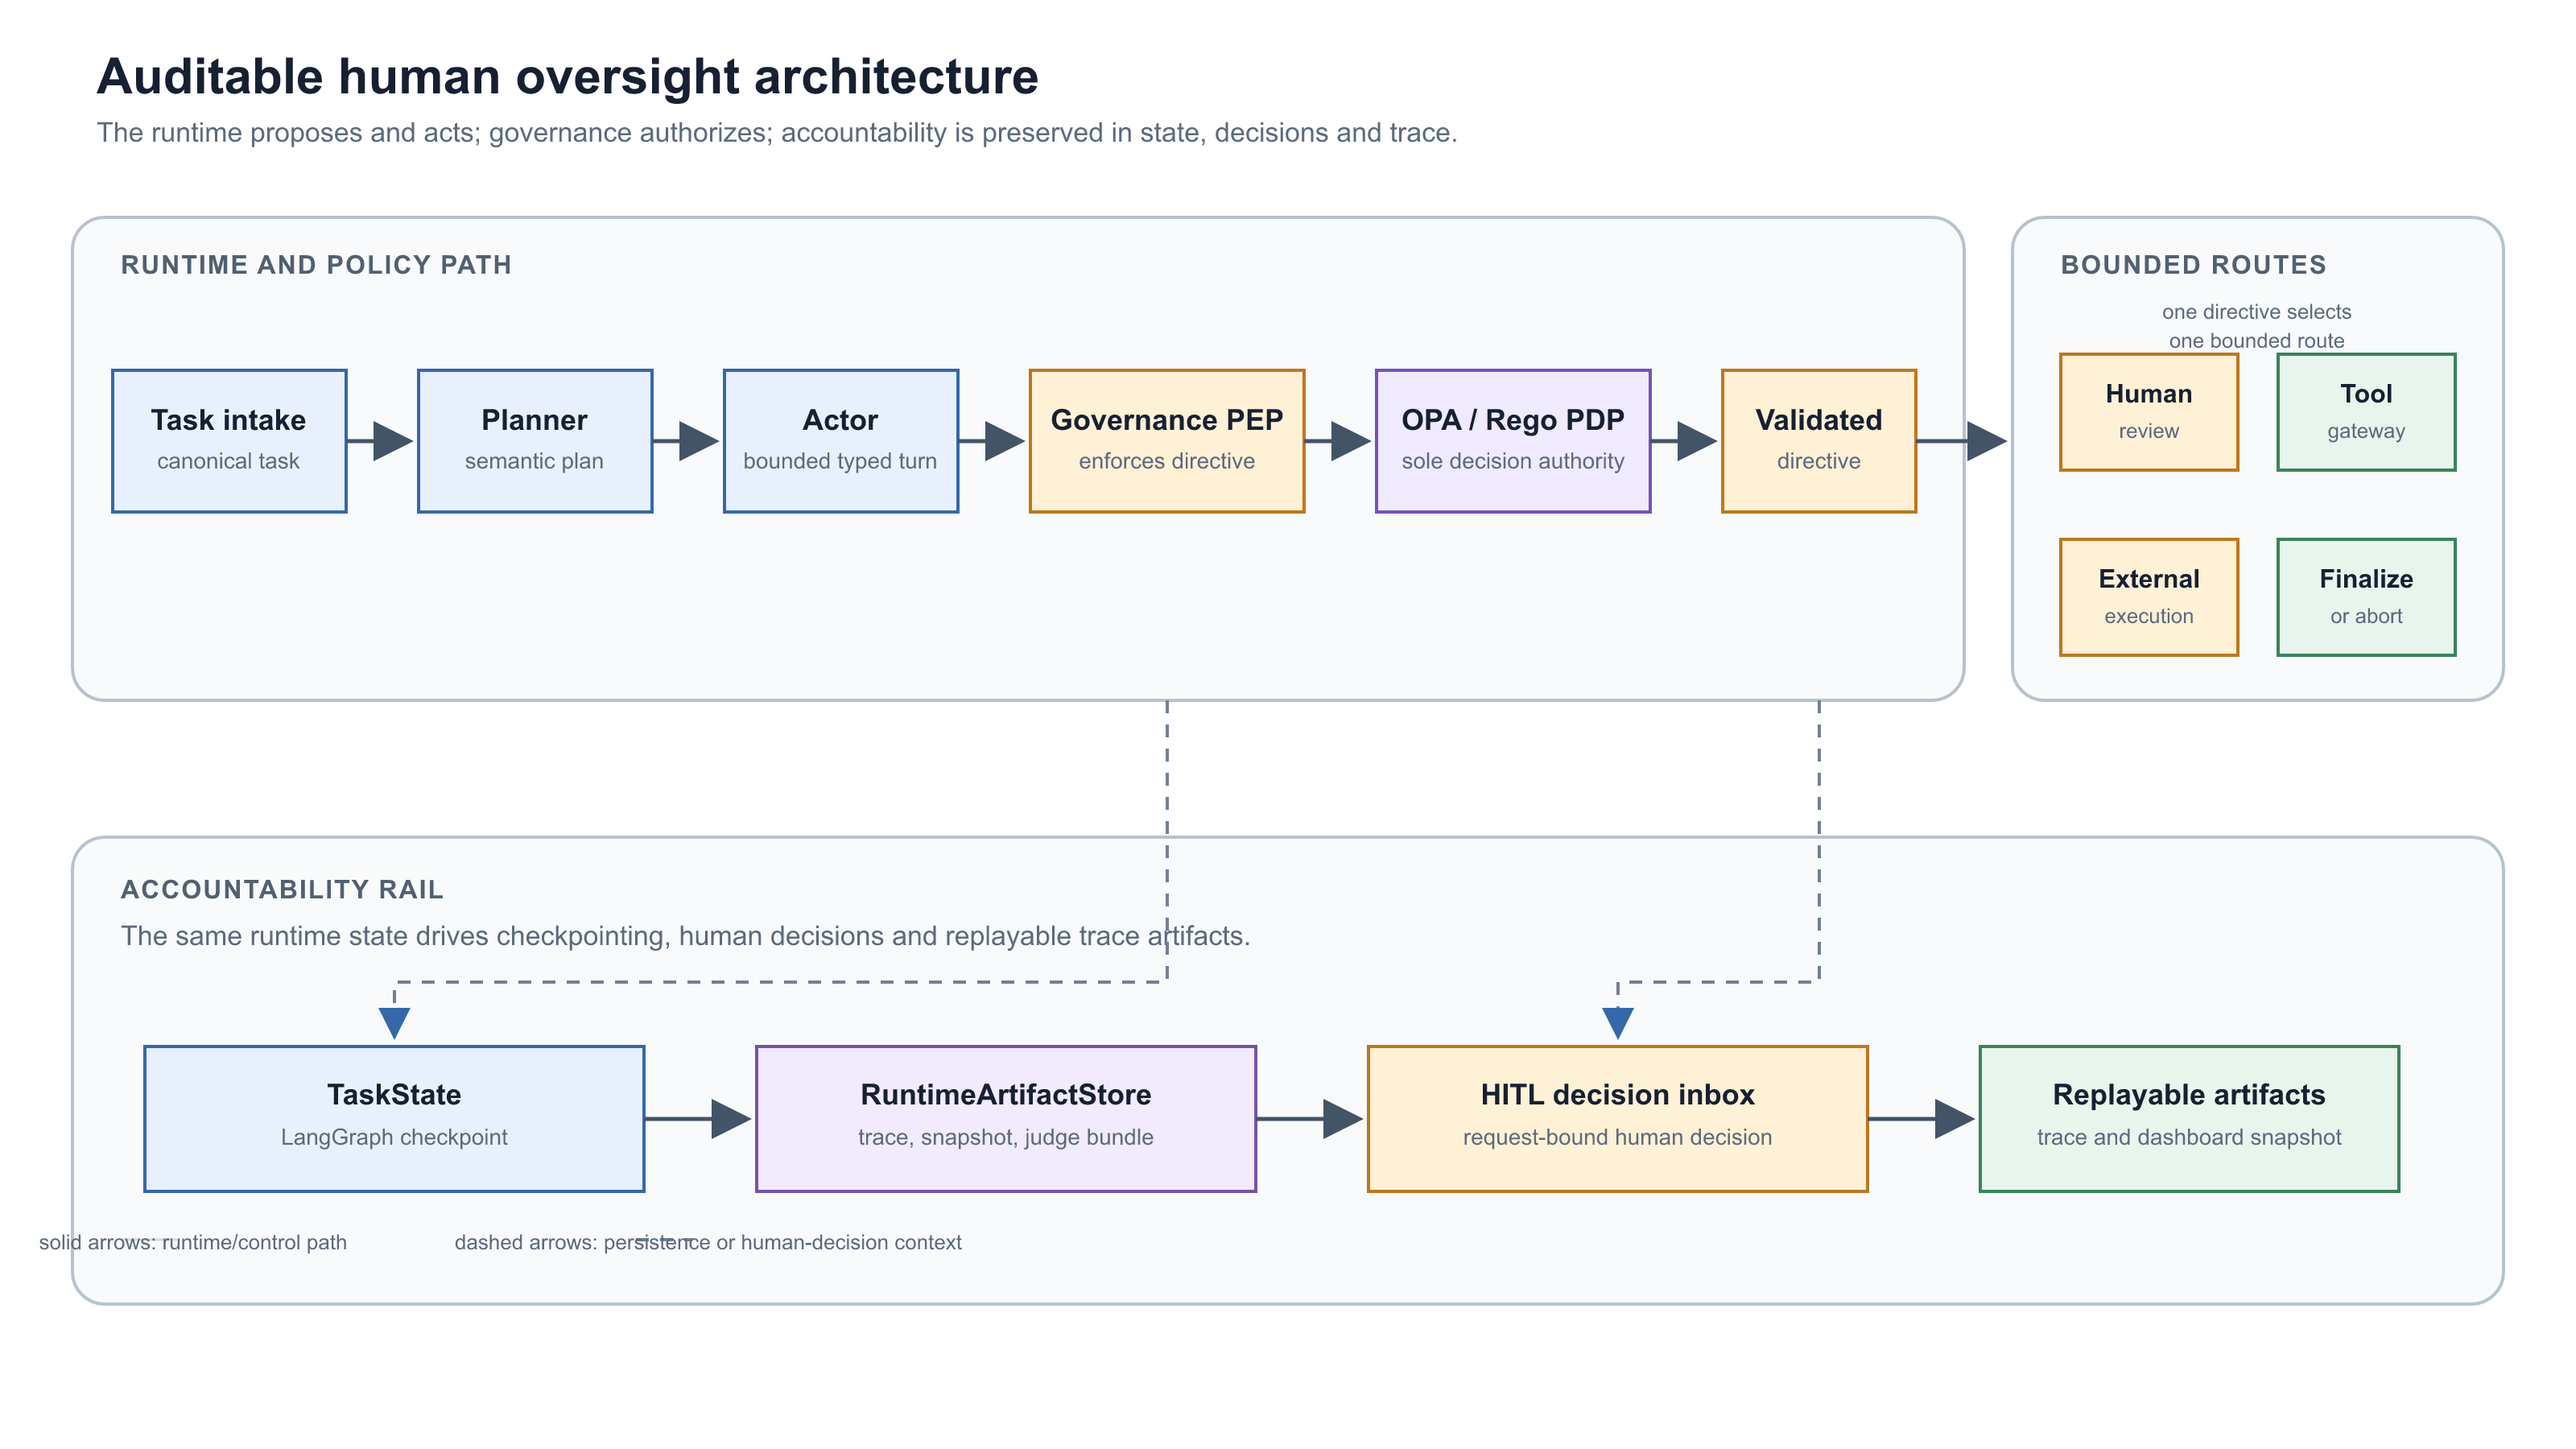
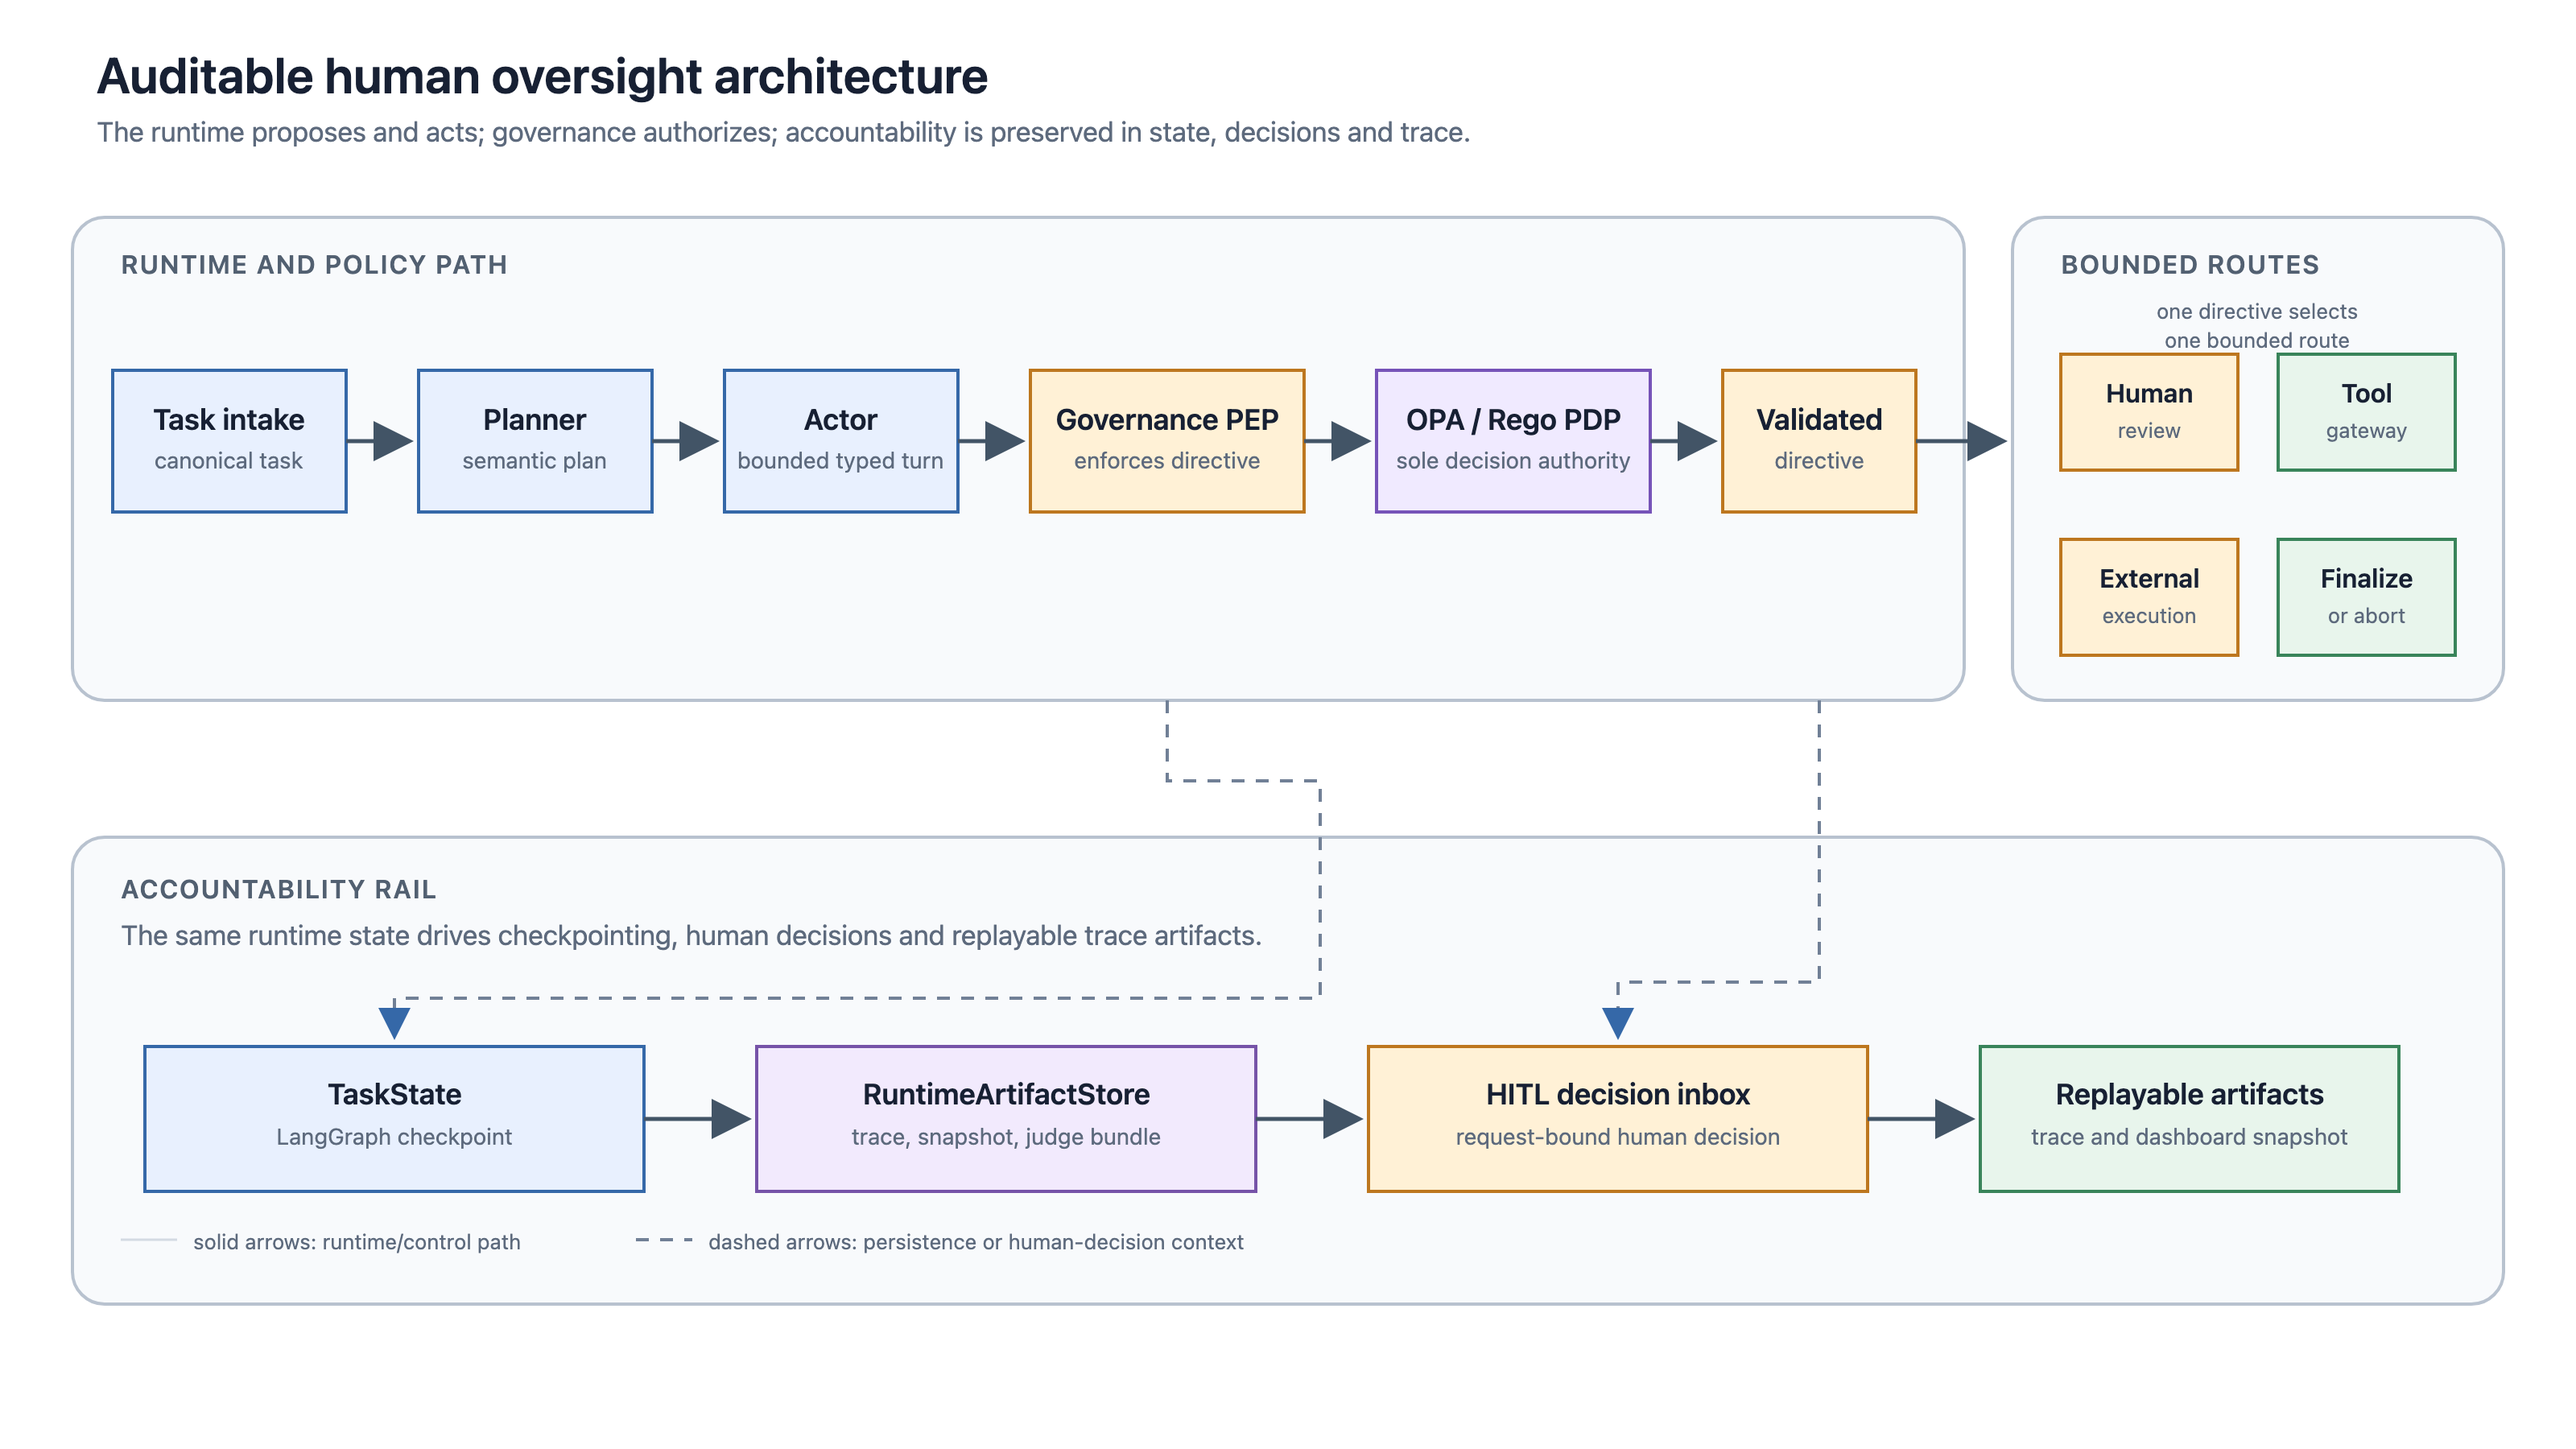
feat: Add HITL async resume sequence diagram and update governance flow visuals

diff --git a/figures/README.md b/figures/README.md
@@ -12,6 +12,7 @@ Mermaid operative restano nei documenti originali.
 | `layer2_runtime_graph_thesis.png` | Topologia verticale del runtime LangGraph | Figura del ciclo operativo Layer 2 |
 | `opa_first_governance_clean.png` | Pipeline OPA-first, pillar attivi, Judge e segnali shadow-only | Figura del meccanismo di governance |
 | `hitl_external_clean.png` | Proposta esterna, autorizzazione HITL, esecuzione e riconciliazione | Figura del controllo delle azioni esterne |
+| `hitl_async_resume_sequence.png` | Sequenza asincrona tra runtime CLI, checkpoint, snapshot, dashboard, revisore e inbox | Figura del confine `interrupt / resume` e dell'ownership della run |
 | `evidence_trace_clean.png` | Tool read-only, osservazione concreta, stato, governance e trace | Figura dell'auditabilità |
 
 ## Figure opzionali o da appendice
@@ -20,6 +21,11 @@ Mermaid operative restano nei documenti originali.
 | --- | --- |
 | `layer2_runtime_graph.png` | Esportazione completa con tutte le transizioni LangGraph; utile come riferimento tecnico |
 | `archive/` | Vecchie esportazioni Mermaid/Excalidraw e riferimento generico plan-and-execute; conservate per tracciabilità, non per il corpo del capitolo |
+
+La figura `hitl_async_resume_sequence` ha una sorgente SVG modificabile accanto
+al PNG. Descrive il trasporto della decisione:
+lo snapshot serve alla dashboard, l'inbox consegna il comando e soltanto il processo
+CLI owner riprende il checkpoint canonico.
 
 Le figure sperimentali già presenti nelle sottocartelle `figures/thesis/` sono da
 collocare nel capitolo di valutazione, non nel capitolo 3.
